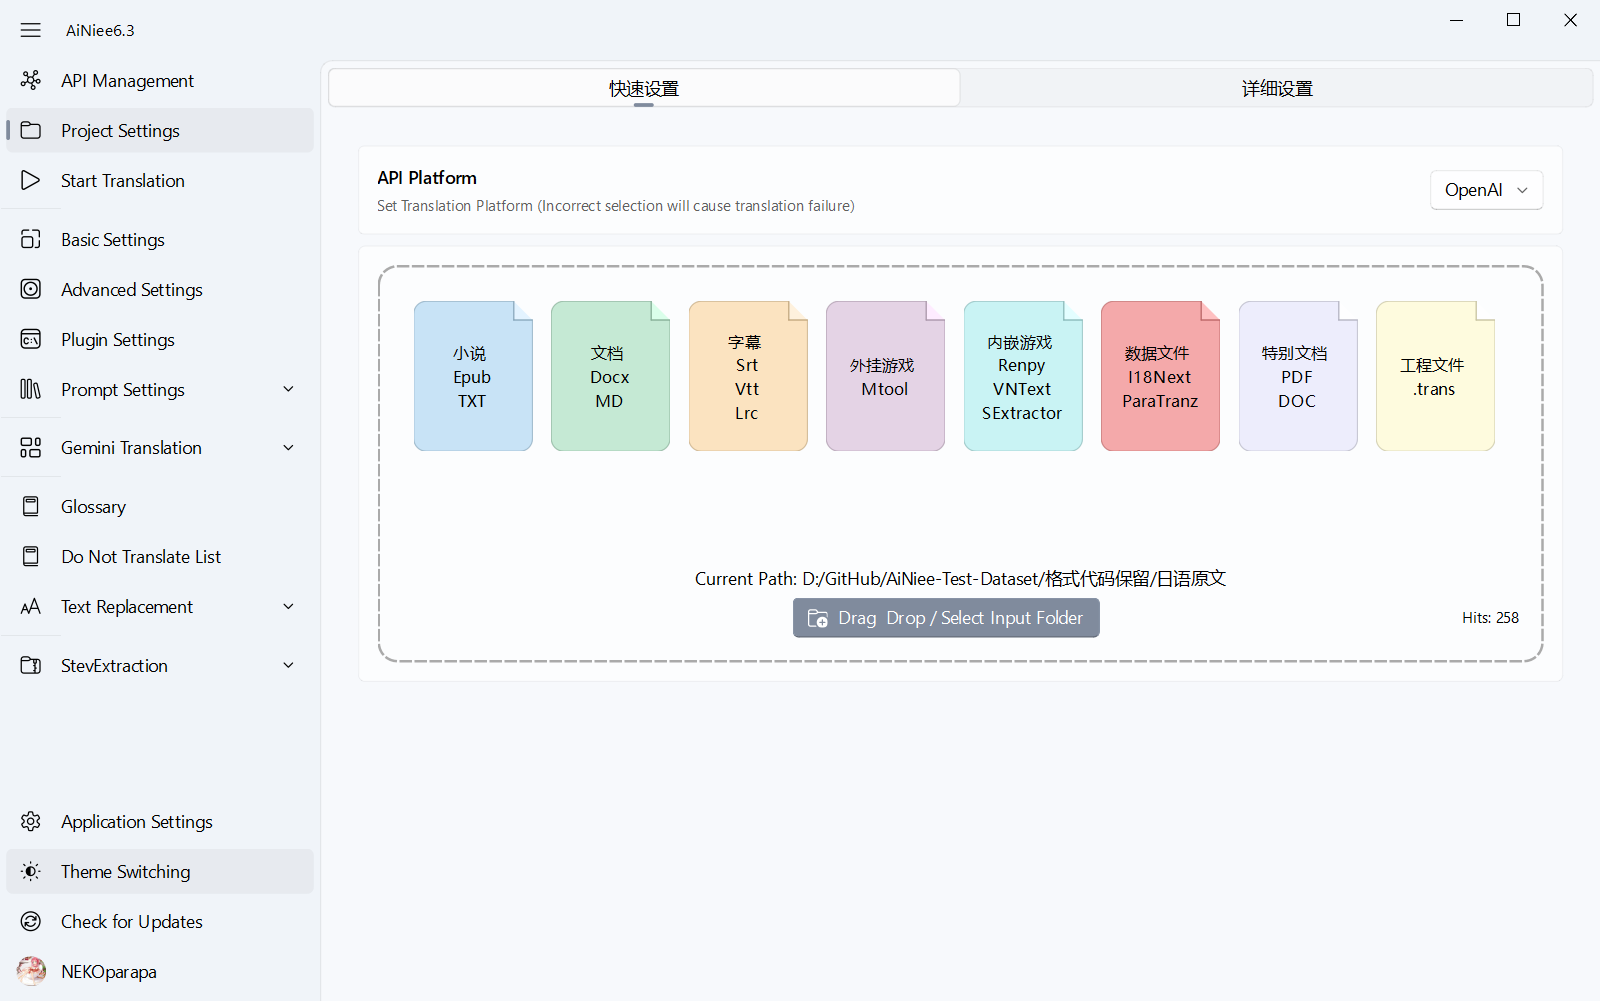
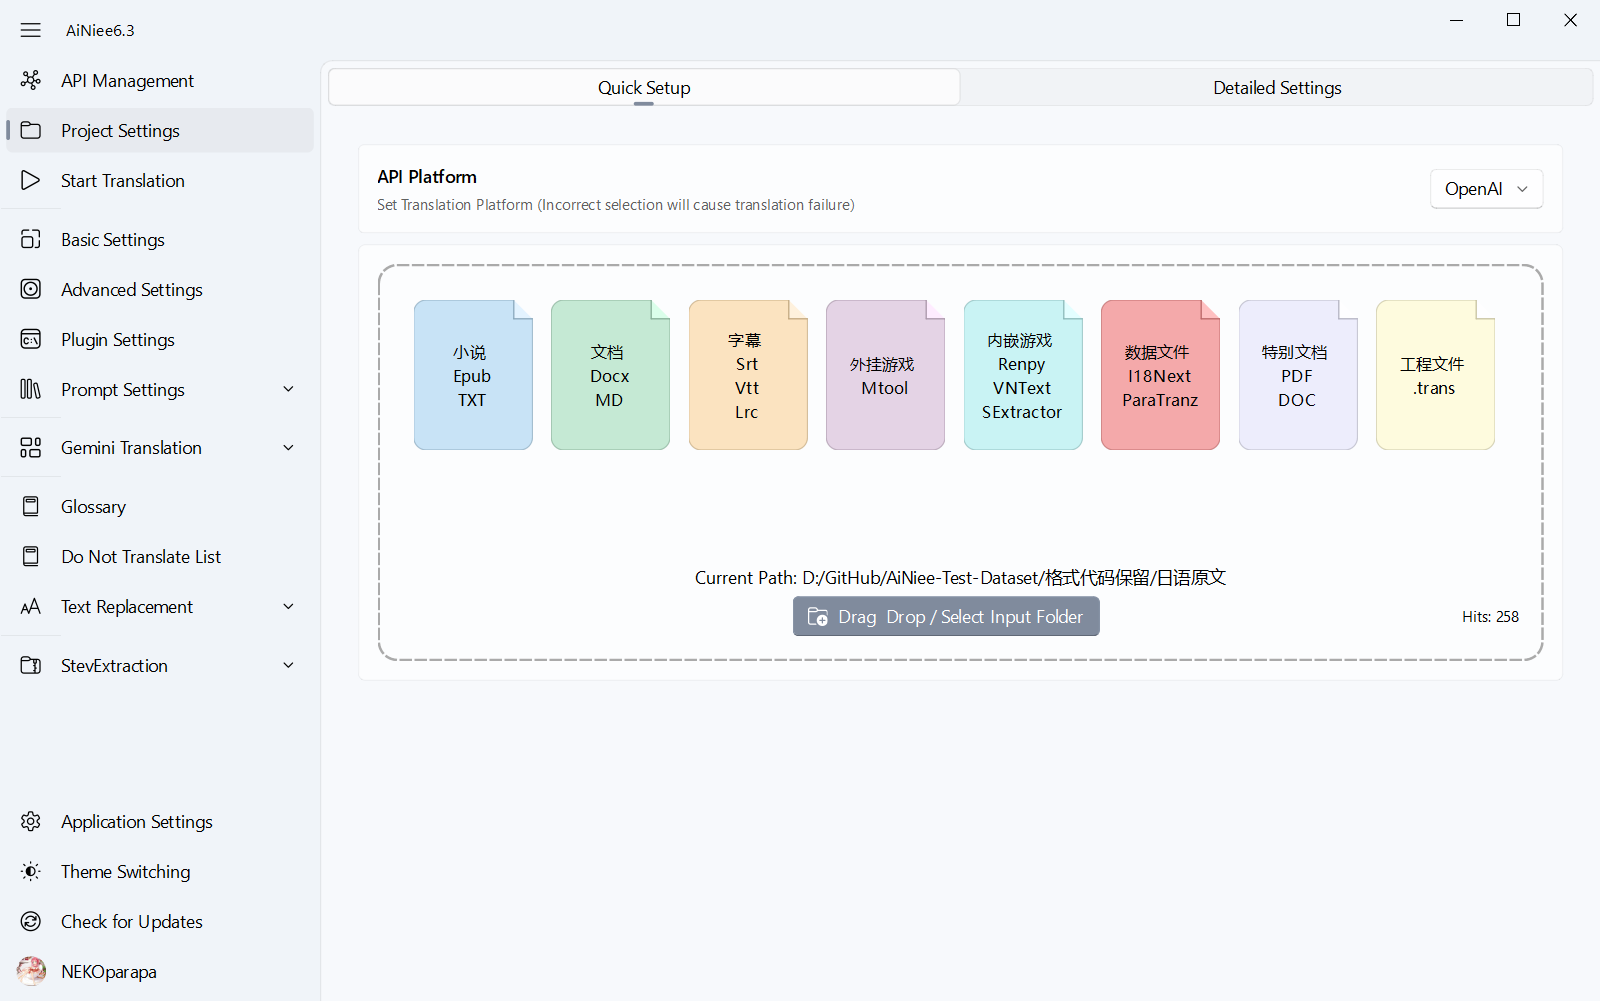
完善UI翻译

diff --git a/UserInterface/AppFluentWindow.py b/UserInterface/AppFluentWindow.py
@@ -239,10 +239,6 @@ class AppFluentWindow(FluentWindow, Base): #主窗口
         # 设置默认页面
         self.switchTo(self.translation_page)
 
-        # 应用设置按钮
-        self.app_settings_page = AppSettingsPage("app_settings_page", self)
-        self.addSubInterface(self.app_settings_page, FluentIcon.SETTING, self.tra("应用设置"), NavigationItemPosition.BOTTOM)
-
         # 主题切换按钮
         self.navigationInterface.addWidget(
             routeKey = "theme_navigation_button",
@@ -267,6 +263,10 @@ class AppFluentWindow(FluentWindow, Base): #主窗口
             onClick = self.show_update_dialog,
             position = NavigationItemPosition.BOTTOM
         )
+
+        # 应用设置按钮
+        self.app_settings_page = AppSettingsPage("app_settings_page", self)
+        self.addSubInterface(self.app_settings_page, FluentIcon.SETTING, self.tra("应用设置"), NavigationItemPosition.BOTTOM)
 
         # 项目主页按钮
         self.navigationInterface.addWidget(

diff --git a/UserInterface/Setting/ProjectSettingsPage.py b/UserInterface/Setting/ProjectSettingsPage.py
@@ -27,9 +27,12 @@ class ProjectSettingsPage(QFrame, Base):
         self.A_settings = ProjectSettingsPage_A('A_settings', window)  # 创建实例，指向界面
         self.B_settings = ProjectSettingsPage_B('B_settings', window, support_project_types)  # 创建实例，指向界面
 
+        info_cont1 = self.tra("快速设置")
+        info_cont2 = self.tra("详细设置")
+
         # 添加子界面到分段式导航栏
-        self.addSubInterface(self.A_settings, 'A_settings', '快速设置')
-        self.addSubInterface(self.B_settings, 'B_settings', '详细设置')
+        self.addSubInterface(self.A_settings, 'A_settings', info_cont1)
+        self.addSubInterface(self.B_settings, 'B_settings', info_cont2)
 
         # 将分段式导航栏和堆叠式窗口添加到垂直布局中
         self.vBoxLayout.addWidget(self.pivot)

diff --git a/README_EN.md b/README_EN.md
@@ -52,11 +52,11 @@
 * **Step 2: Project Settings**
   > <img src="https://raw.githubusercontent.com/NEKOparapa/AiNiee/main/Example%20image/三步走/Step2.png">
   
-  >`Interface Name`: Select the interface you configured earlier<br>
-
-  >`Input Folder`: Place the original files in this folder; novels, subtitles, documents can be translated directly, games require text extraction tools<br>
+  >`API Platform`: Select the interface you configured earlier<br>
 
   >`Target Language`: The language you want to translate to<br>
+
+  >`Input Folder`: Place the original files in this folder; novels, subtitles, documents can be translated directly, games require text extraction tools<br>
 
 * **Step 3: Start Translation**
 
@@ -89,14 +89,14 @@
       |[Translator++](https://dreamsavior.net/download/)|Supports multiple game engines|Translator++ export files|
       |[Locale Emulator](https://github.com/xupefei/Locale-Emulator)|Solves Japanese game encoding issues|N/A|
 
- * **`📖Translation Auxiliary Tools`**
+ * **`🚡Translation Auxiliary Tools`**
 
       |Tool Name|Description|
       |:----:|:-----:|
       |[Novel Toolbox](https://books.fishhawk.top/workspace/toolbox)|Terminology table creation assistant tool|
       |[KeywordGacha](https://github.com/neavo/KeywordGacha) |AI-powered tool for automatically generating entity term translations|
 
- * **`📖Local Model Running Tools`**
+ * **`🧰Local Model Running Tools`**
 
       |Tool Name|Description|
       |:----:|:-----:|
@@ -123,15 +123,12 @@
       |[GalTransl Tutorial](https://www.bilibili.com/video/BV1Yw411q7Zv/?share_source=copy_web&vd_source=b0eede35fc5eaa5c382509c6040d6501) |Recommended for first-time users|
       |[Wolf Game Tutorial](https://www.bilibili.com/video/BV1SnXbYiEjQ/?share_source=copy_web&vd_source=b0eede35fc5eaa5c382509c6040d6501)|Recommended for first-time users|
 
- * **`📺Game Translation Text Tutorials`**
+ * **`🎫Game Translation Text Tutorials`**
 
       |Tutorial Link|Description|
       |:----:|:-----:|
       |[Mtool Tool Tutorial](https://github.com/NEKOparapa/AiNiee/wiki/%E6%B8%B8%E6%88%8F%E7%BF%BB%E8%AF%91%E2%80%90Mtool)|Suitable for translating RPGmaker MV/MZ games|
-      |[GalTransl Tool Tutorial](https://github.com/NEKOparapa/AiNiee/wiki/%E6%B8%B8%E6%88%8F%E7%BF%BB%E8%AF%91%E2%80%90GalTransl)|Suitable for translating Galgame|
-      |[Wolf RPG Tool Tutorial](https://github.com/NEKOparapa/AiNiee/wiki/%E6%B8%B8%E6%88%8F%E7%BF%BB%E8%AF%91%E2%80%90WolfRPG)|Suitable for translating Wolf RPG Editor games|
-      |[StevExtraction Tool Tutorial](https://github.com/NEKOparapa/AiNiee/wiki/%E6%B8%B8%E6%88%8F%E7%BF%BB%E8%AF%91%E2%80%90StevExtraction)|Suitable for translating RPGmakerMZ/MZ games|
-
+      |[Translator++ Tool Tutorial](https://github.com/NEKOparapa/AiNiee/wiki/%E6%B8%B8%E6%88%8F%E7%BF%BB%E8%AF%91%E2%80%90Translator--%EF%BC%88%E5%B7%A5%E7%A8%8B%E6%96%87%E4%BB%B6%E7%89%88%EF%BC%89)|Suitable for translating RPG,RenPY,Krkr games|
 </details>
 
 
